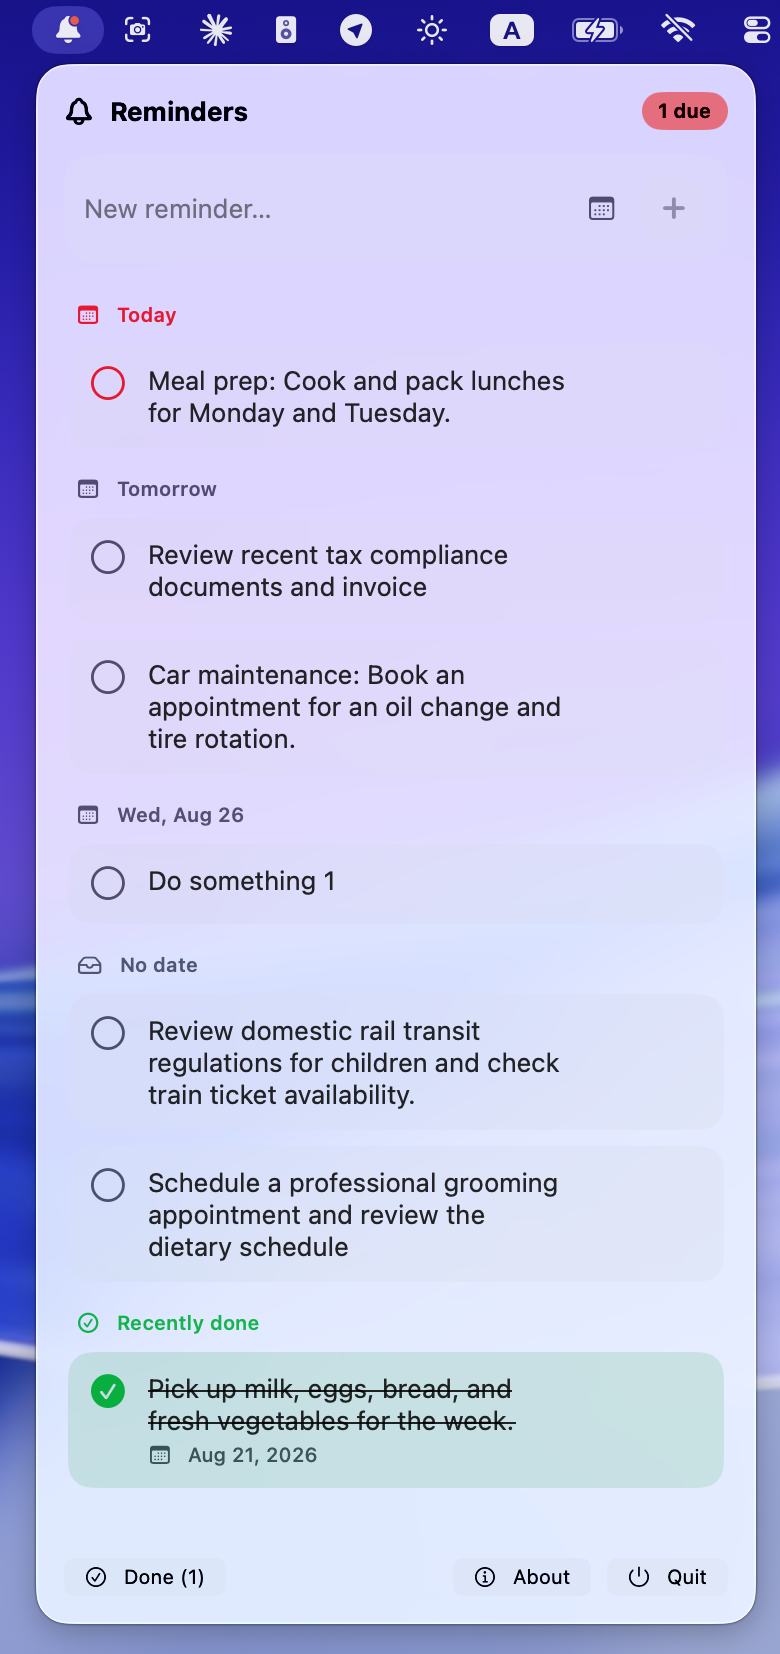
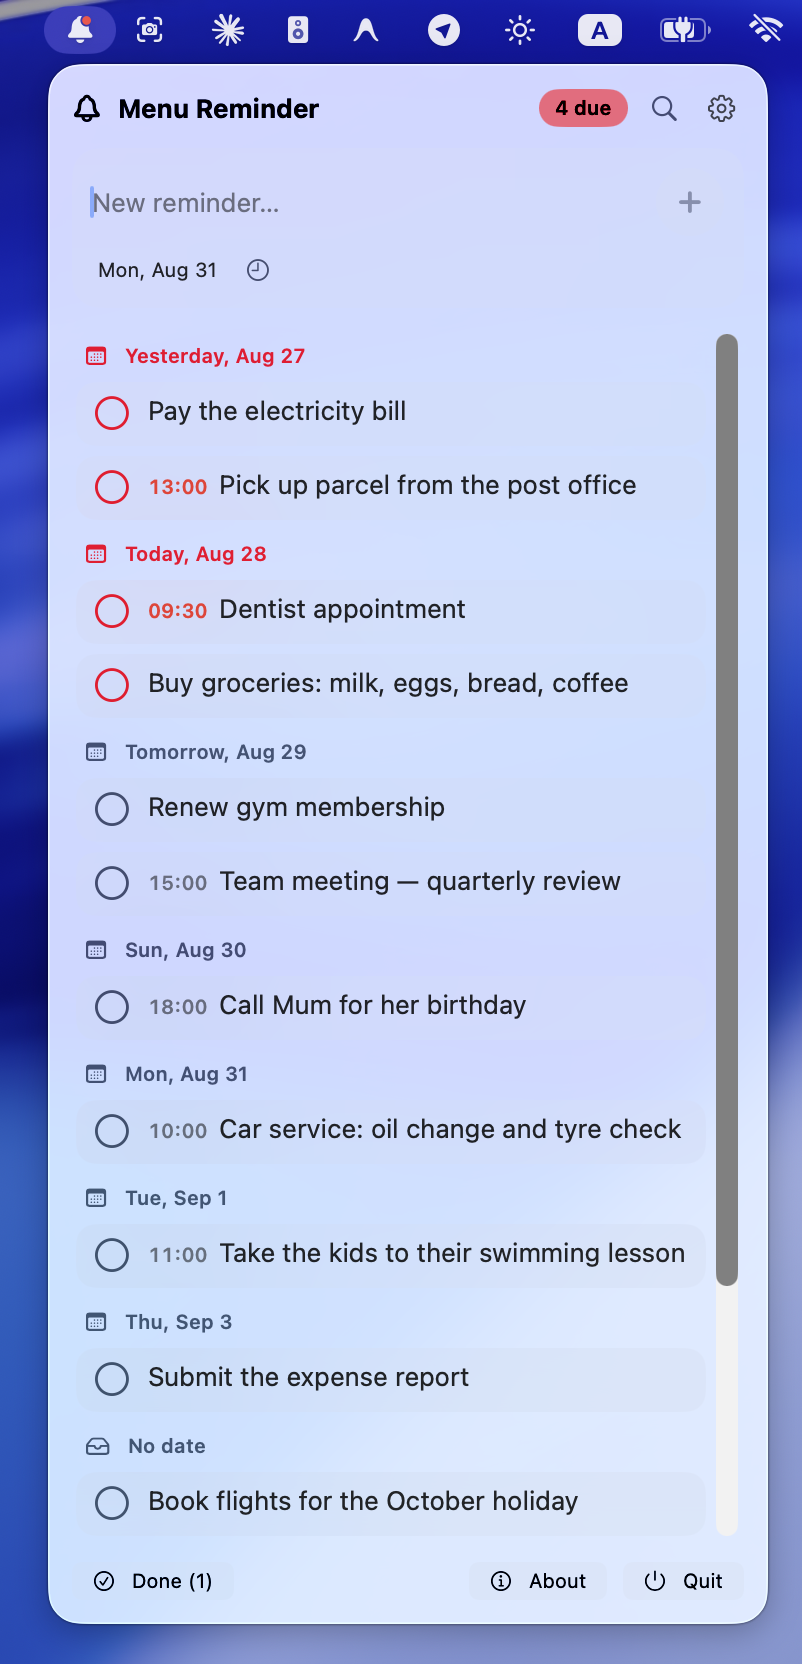
update links

diff --git a/index.html b/index.html
@@ -162,7 +162,7 @@
     </div>
     <div class="app-row__media">
       <div class="shot">
-        <img src="assets/img/screenshots/librera1.png" alt="Librera Reader screenshot" loading="lazy">
+        <img src="assets/img/screenshots/librera1.png" alt="Librera1 Reader screenshot" loading="lazy">
         <div class="shot__placeholder" aria-hidden="true"></div>
       </div>
     </div>
@@ -188,17 +188,17 @@
       <h2 class="app-row__title">Sound Icon</h2>
       <p class="app-row__body">Easily switch audio outputs, customize device icons, and star your favorites to switch between them in a single click, control volume. Built-in local music player.</p>
       <div class="app-row__actions">
-        <a class="btn btn--neutral" href="https://soundicon.app/">Web</a>
-        <a class="btn btn--ghost btn--outlined" href="https://apps.apple.com/ua/app/sound-icon/id6777951012?mt=12">Mac App Store</a>
+        <a class="btn btn--neutral" href="https://apps.apple.com/ua/app/sound-icon/id6777951012?mt=12">Mac App Store</a>
         <a class="btn btn--ghost btn--outlined" href="https://github.com/foobnix/librera.app/releases/tag/Download">
           <span class="icon" aria-hidden="true"><svg xmlns="http://www.w3.org/2000/svg" viewBox="0 0 24 24" fill="none" stroke="currentColor" stroke-width="1.75" stroke-linecap="round" stroke-linejoin="round"><path d="M12 15V3"/><path d="M21 15v4a2 2 0 0 1-2 2H5a2 2 0 0 1-2-2v-4"/><path d="m7 10 5 5 5-5"/></svg></span>
           Direct DMG
         </a>
+        <a class="btn btn--ghost btn--outlined" href="https://soundicon.app/">Web</a>
       </div>
     </div>
     <div class="app-row__media">
       <div class="shot">
-        <img src="assets/img/screenshots/soundicon.png" alt="Sound Icon screenshot" loading="lazy">
+        <img src="assets/img/screenshots/SoundIcon.png" alt="Sound Icon screenshot" loading="lazy">
         <div class="shot__placeholder" aria-hidden="true"></div>
       </div>
     </div>
@@ -218,21 +218,25 @@
       <div class="app-row__meta">
         <div class="eyebrow">Utilities</div>
         <ul class="platforms" aria-label="Platforms">
+          <li>iOS</li>
+          <li>iPadOS</li>
           <li>macOS</li>
         </ul>
       </div>
       <h2 class="app-row__title">Menu Reminder</h2>
       <p class="app-row__body">Your to-dos, one click away in the menu bar. Add a reminder with an optional due date and the list groups itself by day — today, tomorrow, overdue in red. When something comes due, the bell lights up and a notification arrives; check it off and it's done.</p>
       <div class="app-row__actions">
-        <a class="btn btn--neutral" href="https://github.com/foobnix/librera.app/releases/tag/Download">
+        <a class="btn btn--neutral" href="https://apps.apple.com/ua/app/menu-reminder/id6804490236?mt=12">Mac App Store</a>
+        <a class="btn btn--ghost btn--outlined" href="https://github.com/foobnix/librera.app/releases/tag/Download">
           <span class="icon" aria-hidden="true"><svg xmlns="http://www.w3.org/2000/svg" viewBox="0 0 24 24" fill="none" stroke="currentColor" stroke-width="1.75" stroke-linecap="round" stroke-linejoin="round"><path d="M12 15V3"/><path d="M21 15v4a2 2 0 0 1-2 2H5a2 2 0 0 1-2-2v-4"/><path d="m7 10 5 5 5-5"/></svg></span>
           Direct DMG
         </a>
       </div>
     </div>
     <div class="app-row__media">
-      <div class="shot">
-        <img src="assets/img/screenshots/MenuReminder.png" alt="Menu Reminder screenshot" loading="lazy">
+      <div class="shot shot--pair">
+        <img src="assets/img/screenshots/MenuReminder.png" alt="Menu Reminder on macOS" loading="lazy">
+        <img src="assets/img/screenshots/MenuReminderIphone.png" alt="Menu Reminder on iPhone" loading="lazy">
         <div class="shot__placeholder" aria-hidden="true"></div>
       </div>
     </div>
@@ -258,7 +262,8 @@
       <h2 class="app-row__title">Menu Screenshot</h2>
       <p class="app-row__body">Capture perfectly sized screenshots and drag them anywhere. Snap the perfect size. Drag it to any app. Custom screenshots, ready to drag and drop.</p>
       <div class="app-row__actions">
-        <a class="btn btn--neutral" href="https://github.com/foobnix/librera.app/releases/tag/Download">
+        <a class="btn btn--neutral" href="https://apps.apple.com/ua/app/menu-screenshot/id6802039422?mt=12">Mac App Store</a>
+        <a class="btn btn--ghost btn--outlined" href="https://github.com/foobnix/librera.app/releases/tag/Download">
           <span class="icon" aria-hidden="true"><svg xmlns="http://www.w3.org/2000/svg" viewBox="0 0 24 24" fill="none" stroke="currentColor" stroke-width="1.75" stroke-linecap="round" stroke-linejoin="round"><path d="M12 15V3"/><path d="M21 15v4a2 2 0 0 1-2 2H5a2 2 0 0 1-2-2v-4"/><path d="m7 10 5 5 5-5"/></svg></span>
           Direct DMG
         </a>
@@ -266,7 +271,7 @@
     </div>
     <div class="app-row__media">
       <div class="shot">
-        <img src="assets/img/screenshots/screenshot.png" alt="Menu Screenshot screenshot" loading="lazy">
+        <img src="assets/img/screenshots/MenuScreenshot.png" alt="Menu Screenshot app screenshot" loading="lazy">
         <div class="shot__placeholder" aria-hidden="true"></div>
       </div>
     </div>

diff --git a/assets/css/site.css b/assets/css/site.css
@@ -277,6 +277,11 @@ h1, h2, h3, p { margin: 0; }
   object-fit: contain;
 }
 
+/* Two shots side by side — e.g. a macOS panel next to its iPhone counterpart.
+   Bottom-aligned so panels of different heights share a baseline. */
+.shot--pair { gap: var(--space-6); align-items: flex-end; }
+.shot--pair img { max-height: min(560px, 70vh); }
+
 /* Empty slot: a neutral panel holding the space until an image is dropped in. */
 .shot__placeholder {
   flex: 1 1 auto;
